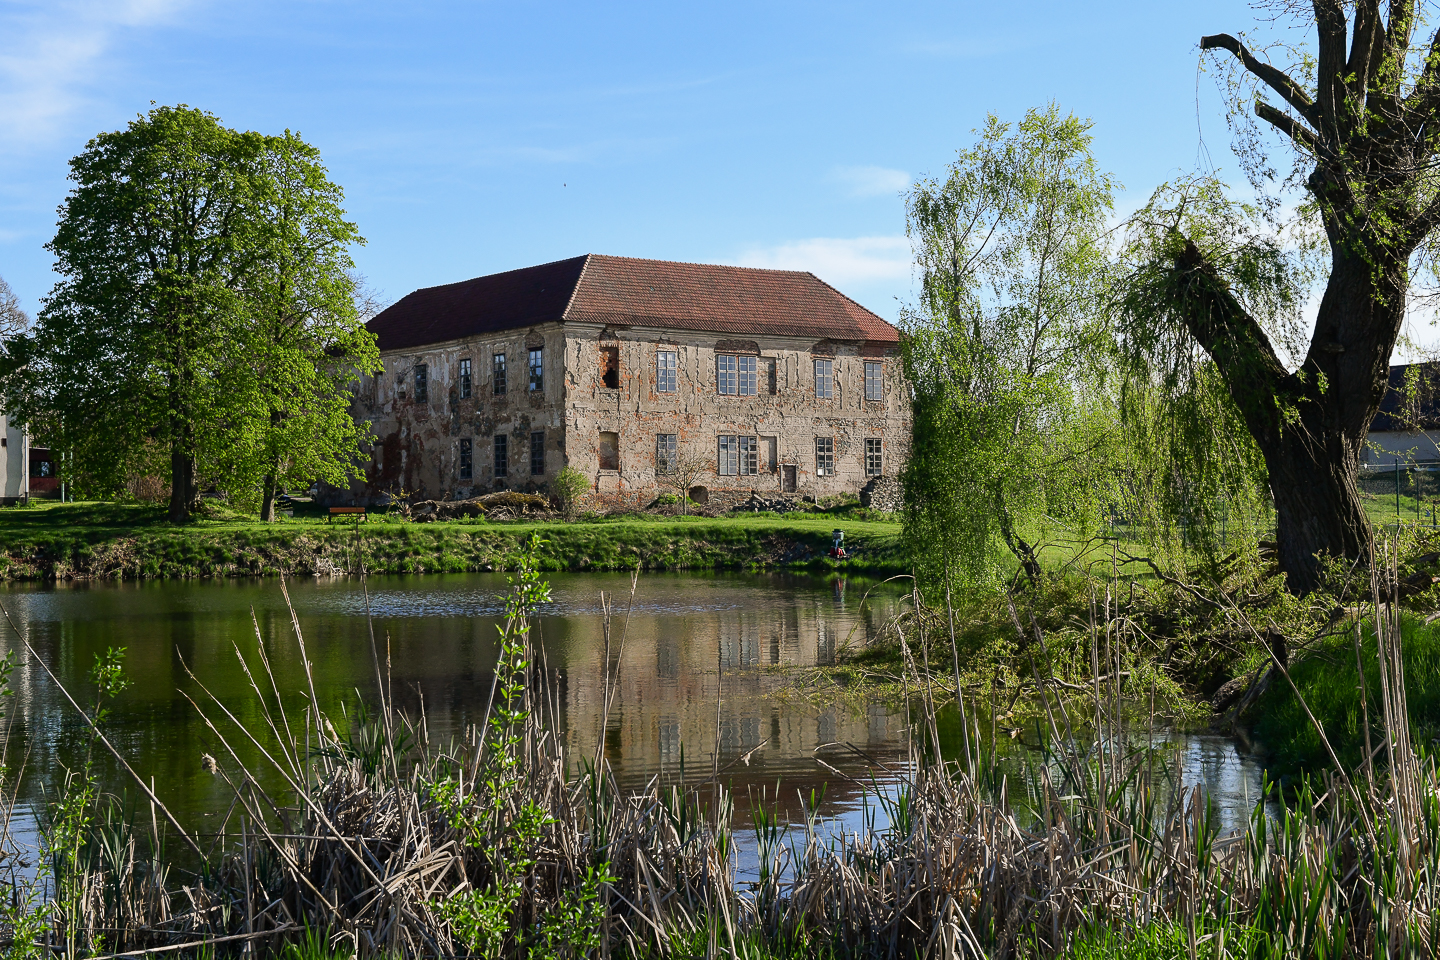
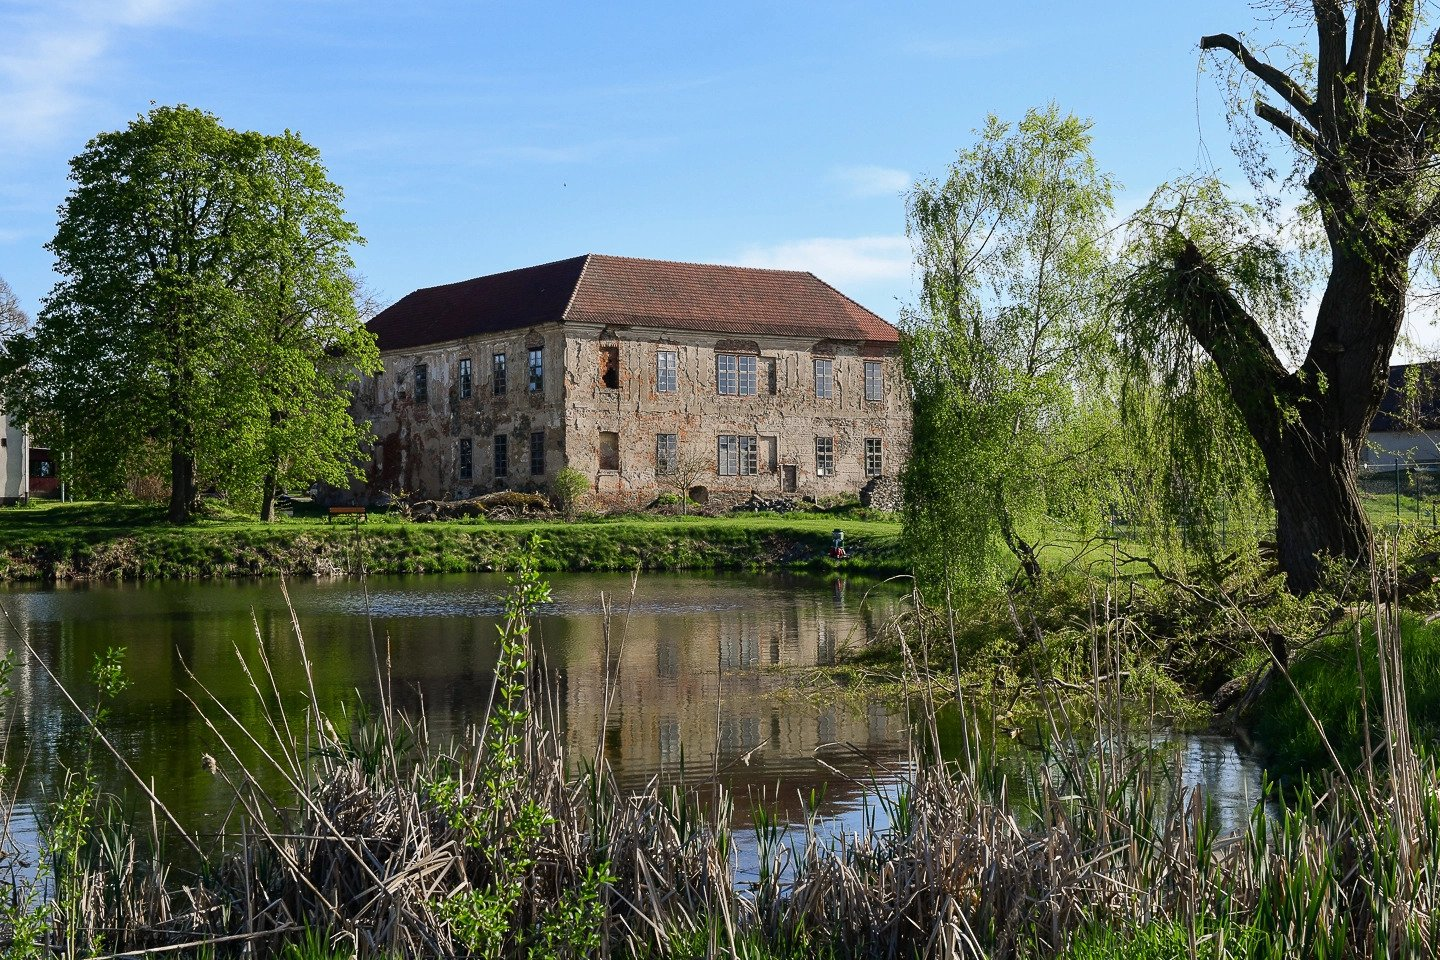
fix images

diff --git a/src/components/Main/index.js b/src/components/Main/index.js
@@ -1,12 +1,12 @@
 import React from 'react';
 import { Link } from 'gatsby';
 
-import mainPhotoMobile from '../../../static/images/zbenice-phone-32.webp';
-import mainPhotoDesktop from '../../../static/images/zbenice-32.webp';
-import photoBottom1 from '../../../static/images/zbenice-55.webp';
-import photoBottom2 from '../../../static/images/zbenice-42.webp';
-import photoBottom3 from '../../../static/images/zbenice-52.webp';
-import photoOwner from '../../../static/images/zbenice-ceska.webp';
+import mainPhotoMobile from '../../../static/images/zbenice-phone-32.jpg';
+import mainPhotoDesktop from '../../../static/images/zbenice-32.jpg';
+import photoBottom1 from '../../../static/images/zbenice-55.jpg';
+import photoBottom2 from '../../../static/images/zbenice-42.jpg';
+import photoBottom3 from '../../../static/images/zbenice-52.jpg';
+import photoOwner from '../../../static/images/zbenice-ceska.jpg';
 
 const Main = () => {
   return (

diff --git a/src/components/AboutCastle/coats-of-arms.js b/src/components/AboutCastle/coats-of-arms.js
@@ -7,13 +7,13 @@ const coatsOfArms = [
   // },
   {
     id: 2,
-    source: '/images/coat-of-arms-oprsalove',
+    source: './images/coat-of-arms-oprsalove.png',
     alt: 'Erb Opršalové z Jetřichovic',
     class: 'house__coat-of-arms',
   },
   {
     id: 3,
-    source: '/images/coat-of-arms-bukovansti',
+    source: './images/coat-of-arms-bukovansti.png',
     alt: 'Erb Bukovanští z Bukovan',
     class: 'house__coat-of-arms',
   },
@@ -25,13 +25,13 @@ const coatsOfArms = [
   // },
   {
     id: 5,
-    source: '/images/coat-of-arms-cejkove',
+    source: './images/coat-of-arms-cejkove.png',
     alt: 'Erb Čejkové z Olbramovic',
     class: 'house__coat-of-arms',
   },
   {
     id: 6,
-    source: '/images/coat-of-arms-schwarzenberkove',
+    source: './images/coat-of-arms-schwarzenberkove.png',
     alt: 'Erb Schwarzenberkové',
     class: 'house__coat-of-arms',
   },

diff --git a/src/components/Header/index.js b/src/components/Header/index.js
@@ -1,7 +1,7 @@
 import React, { useState, useEffect } from 'react';
 import IconSun from '../../svg/icon-sun.svg';
 import IconMoon from '../../svg/icon-moon.svg';
-import logo from '../../../static/images/zbenice-logo.webp';
+import logo from '../../../static/images/zbenice-logo.png';
 import { Link } from 'gatsby';
 import { isBrowser } from '../../utils/browser';
 
